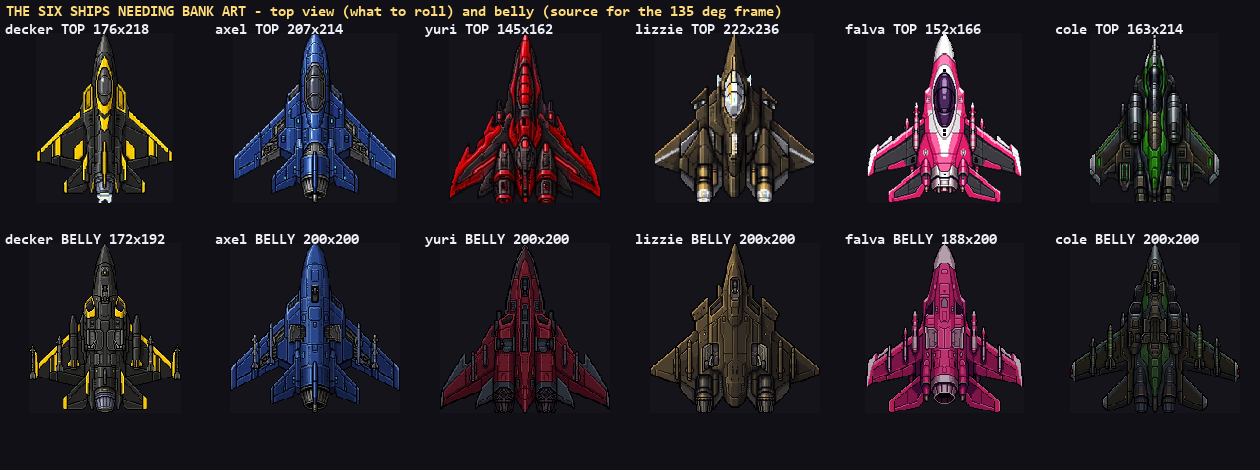
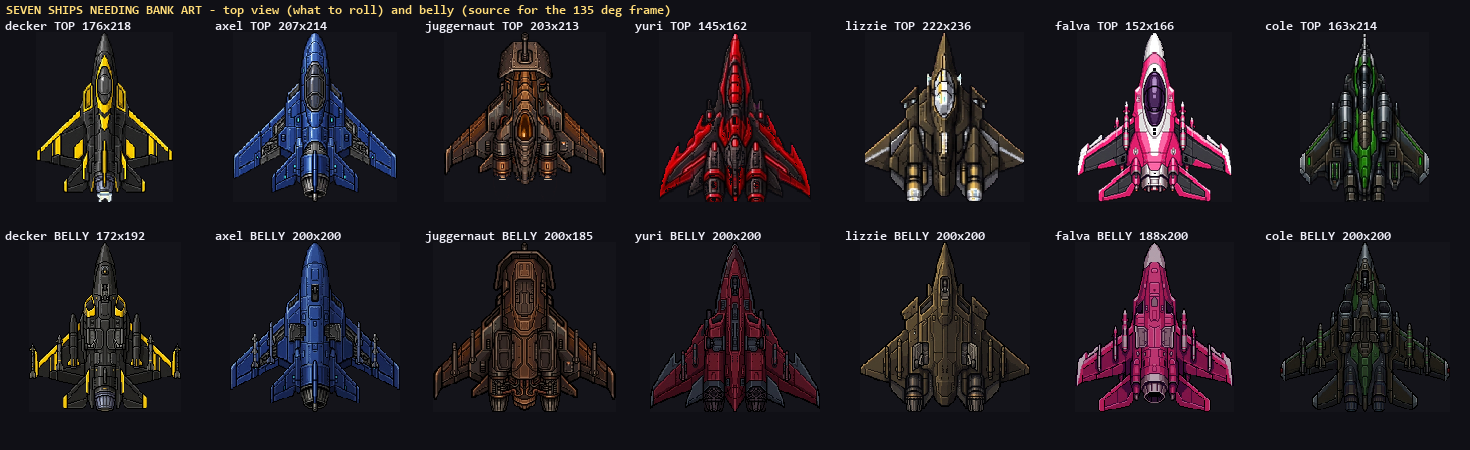
0907c: juggernaut added, and DERIVED vs AUTHORED is a byte compare not a width check
Mike: "Ill need juggernauts too." - and he was right, for a reason that also invalidates what
0907b concluded about him.

A width progression that looks perfect is the SIGNATURE of a derived reel, not of a good one.
Juggernaut's widths run 203/194/190/181/143/21/143, a textbook cosine, and 0907b called him
"clean, leave alone" and made him the POSE REFERENCE on that basis. He is derived - his hull
was replaced in 0906m and the reel derived from it - so his _l and _r are the same pixels.
The widths were perfect because a cosine produced them. Falva was called fine for the same
reason and is also derived.

The only test that separates them is a byte compare of _l against _r and pv0 against pv4:
  DERIVED   juggernaut, decker, axel, falva
  AUTHORED  maverick, lizzie, yuri, cole, freezer

The pose reference is Maverick now. Handing an artist Juggernaut's frames to copy would have
taught the exact left-right symmetry the hand-authoring exists to remove.

Being authored is not the same as being good, either: yuri's every bank frame is 145 px -
exactly his hull width, he never banks; lizzie's three pivot steps share one width; cole's
27-degree bank is wider than his 17-degree one.

Package now covers seven ships with top and belly plates, per-frame target sizes, and a note
that returned art may drift: fit to reel height and align by silhouette, never by bbox, and
watch for drift BETWEEN a ship's own frames because that morphs it mid-lean.
[…]

Changed region(s): [[0.0, 0.0, 0.9905, 0.4667], [0.0, 0.4978, 0.8357, 0.9333], [0.8357, 0.4978, 0.9905, 0.9022]]

diff --git a/_BUILD_SOURCE/build_bank_handoff_0907c.py b/_BUILD_SOURCE/build_bank_handoff_0907c.py
@@ -1,0 +1,208 @@
+#!/usr/bin/env python3
+"""build_bank_handoff_0907c.py - the hand-authoring package for the frames SpriteCook cannot make.
+
+    python _BUILD_SOURCE/build_bank_handoff_0907c.py
+
+Mike, 0907: "give me the top down ships that we need that spritecook cant generate and I'll use
+gpt to do so" -> "I need yuri's, lizzie's, falva's, cole's too" -> "Ill need juggernauts too."
+
+⚠ WHICH SHIPS NEED THIS IS A MEASUREMENT, AND I GOT IT WRONG TWICE BY GUESSING FROM WIDTHS.
+A DERIVED reel is a horizontal squash of the top view, and `abs(cos t)` is symmetric in t, so its
+left and right poses are THE SAME PIXELS. Comparing `_l` against `_r` and `pv0` against `pv4` byte
+for byte is the only test that separates them:
+
+    DERIVED  juggernaut, decker, axel, falva
+    AUTHORED maverick, lizzie, yuri, cole, freezer
+
+Judging by width progression instead called juggernaut "clean, leave alone" (his widths run
+203/194/190/181/143/21/143, which is a perfect cosine - because that is exactly what produced
+them) and called falva fine for the same reason. Both are symmetric and carry no direction.
+
+⚠ AND THE POSE REFERENCE MUST BE AN AUTHORED REEL. An earlier pass used Juggernaut, which would
+have taught the artist the very symmetry this exercise exists to remove. Maverick is authored and
+his l/r genuinely differ; his WIDTHS are degenerate (l, pv0 and br1 all 156) so the picture teaches
+the pose and the table governs the size.
+"""
+import os, json, math, subprocess
+from PIL import Image, ImageDraw, ImageFont
+
+ROOT = os.path.dirname(os.path.dirname(os.path.abspath(__file__)))
+OUT = os.path.join(ROOT, 'docs/HANDOFF_BANK_FRAMES')
+H = os.path.join(ROOT, '_BUILD_SOURCE/sc_hero_0906x')
+ATLAS = os.path.join(ROOT, 'assets/game/atlas/bof_player_ships_barrel_rolls.png')
+
+NEED = ['decker', 'axel', 'juggernaut', 'yuri', 'lizzie', 'falva', 'cole']
+DIAG = {
+ 'decker': 'DERIVED - new hull (0906x), no authored bank art ever existed; l and r are identical.',
+ 'axel': 'DERIVED - new hull (0906x), no authored bank art ever existed; l and r are identical.',
+ 'juggernaut': ['DERIVED - his hull was replaced in 0906m and the reel derived from it, so l and r are',
+                'pixel identical. His widths run 203/194/190/181/143/21/143, a perfect cosine, which',
+                'is why an earlier pass wrongly called him clean - the widths were never the problem.'],
+ 'yuri': ['AUTHORED but broken - every bank and roll frame is 145 px, exactly his hull width.',
+          'pv1, l, pv0, br1 and br2 do not narrow by a single pixel; he never banks or rolls.'],
+ 'lizzie': ['AUTHORED but degenerate - pv1, l and pv0 are all 211 px, so the three pivot steps',
+            'share one width and the lean never progresses.'],
+ 'falva': ['DERIVED - l and r are identical. Her widths progress cleanly, which is why an earlier',
+           'pass called her fine, and her old turn frames also carried a BAKED ENGINE FLAME that',
+           'game.js refuses to use.'],
+ 'cole': ['AUTHORED but out of order - pv0 (27 deg) is 156 px against pv1 (17 deg) at 153, so the',
+          'HARDER bank is WIDER than the gentle one. l and pv0 also share a width.'],
+}
+FRAMES = [(17, 'pv3', 'gentle bank right - you start to see its right side'),
+          (20, 'r', 'bank right - the standard lean'),
+          (27, 'pv4', 'hard bank right'),
+          (45, 'br7', 'rolling right - wings clearly foreshortened'),
+          (90, 'br6', 'KNIFE EDGE - fuselage spine and the razor edge of the wings only'),
+          (135, 'br5', 'past vertical - now showing the BELLY, still narrow')]
+
+
+def flat(x, bg=(20, 20, 26)):
+    o = Image.new('RGB', x.size, bg)
+    o.paste(x, (0, 0), x)
+    return o
+
+
+def main():
+    os.makedirs(OUT, exist_ok=True)
+    rows = json.loads(subprocess.run(['node', '-e',
+        "global.window=global;eval(require('fs').readFileSync('assets/manifest.js','utf8'));"
+        "process.stdout.write(JSON.stringify(BOFX.ships));"], capture_output=True, cwd=ROOT).stdout.decode())
+    A = Image.open(ATLAS).convert('RGBA')
+
+    def cut(k):
+        r = rows[k]
+        c = A.crop((r[0], r[1], r[0] + r[2], r[1] + r[3]))
+        return c.crop(c.getbbox())
+
+    try:
+        F = ImageFont.truetype('C:/Windows/Fonts/consolab.ttf', 13)
+    except Exception:
+        F = ImageFont.load_default()
+
+    POSES = [('_pv2', 'LEVEL 0 deg'), ('_pv1', 'bank right 17'), ('_l', 'bank right 20'),
+             ('_pv0', 'bank right 27'), ('_br1', 'roll right 45'),
+             ('_br2', 'roll right 90 EDGE'), ('_br3', 'roll 135 BELLY')]
+    T = 200
+    S = Image.new('RGB', (T * len(POSES), T + 66), (16, 16, 22))
+    d = ImageDraw.Draw(S)
+    d.text((6, 4), 'MAVERICK, AUTHORED - copy the POSE, not the sizes. His nose never leaves vertical;', font=F, fill=(255, 220, 120))
+    d.text((6, 20), 'as he rolls you see the SIDE of his fuselage. That is what makes left differ from right,', font=F, fill=(255, 220, 120))
+    d.text((6, 36), 'and it is the one thing a squash cannot fake. Target WIDTHS are in the table, not here.', font=F, fill=(255, 220, 120))
+    for i, (k, lbl) in enumerate(POSES):
+        im = cut('ship_maverick' + k)
+        sc = min((T - 14) / im.width, (T - 74) / im.height)
+        t = flat(im.resize((max(1, int(im.width * sc)), max(1, int(im.height * sc))), Image.NEAREST))
+        S.paste(t, (i * T + (T - t.width) // 2, 54 + (T - 54 - t.height) // 2))
+        d.text((i * T + 5, T + 44), lbl, font=F, fill=(238, 238, 248))
+    S.save(os.path.join(OUT, 'POSE_REFERENCE_maverick.png'))
+
+    L = []
+    def W_(s=''):
+        L.append(s)
+    W_('BULLETS OF FURY - BANK / ROLL FRAMES NEEDED (hand-authored)')
+    W_('=' * 76)
+    W_()
+    W_('SpriteCook cannot produce these. Tested four ways - plain prompt, emphatic prompt, a')
+    W_('picture of the exact pose as reference, and per-frame editing of the hull. Every time it')
+    W_('YAWED the sprite in the image plane instead of ROLLING it about the nose-to-tail axis:')
+    W_('principal axis came back -49, -64 and -45 degrees where the correct answer is +90 (nose')
+    W_('straight up). It also cannot draw a knife-edge - asked for one it returns a narrowed top')
+    W_('view with the canopy still visible, 39 px wide where a true edge is 18.')
+    W_()
+    W_('THE RULES FOR EVERY FRAME')
+    W_('-' * 76)
+    W_('  * The NOSE STAYS POINTING STRAIGHT UP, dead vertical, in every single frame. The ship')
+    W_('    rolls about its own nose-to-tail axis. Do NOT rotate the image.')
+    W_('  * As it rolls you should see the SIDE of the fuselage. That is what makes a left bank')
+    W_('    differ from a right one, and it is the whole reason these are worth drawing by hand.')
+    W_('  * Camera stays directly overhead. Same design, colours, panel detail, light from above.')
+    W_('  * Transparent background. 1px black outline. NO glow, aura or bloom.')
+    W_('  * NO ENGINE FLAME - the build bakes the flame on, and a drawn one gets doubled.')
+    W_('  * Height stays the same in every frame; only the WIDTH narrows as it rolls.')
+    W_()
+    W_('ONLY ONE SIDE IS NEEDED. Draw the ship banking to ITS RIGHT; the build mirrors each frame')
+    W_('for the left-hand pose. These airframes are laterally symmetric, so the mirror is exact.')
+    W_()
+    W_('SIZE DRIFT IS FINE. If the tool returns a frame a little off the target size, or slightly')
+    W_('restyled, the build absorbs it - frames are fitted to the reel height and aligned by')
+    W_('silhouette, not by their bounding box. What CANNOT be absorbed is the appearance drifting')
+    W_('BETWEEN frames of the same ship, because that makes the aircraft morph mid-lean. Keep one')
+    W_('ship consistent across its six frames and any overall size difference gets normalised.')
+    W_()
+    W_()
+    W_('WHY EACH SHIP IS ON THE LIST (measured, not opinion)')
+    W_('=' * 76)
+    W_('A DERIVED reel is a horizontal squash of the top view, and that squash is symmetric about')
+    W_('the roll angle - so its left and right poses are THE SAME PIXELS and it can never show')
+    W_('direction. Verified per ship by comparing l against r, and pv0 against pv4, byte for byte.')
+    W_()
+    for p in NEED:
+        v = DIAG[p]
+        if isinstance(v, str):
+            v = [v]
+        W_('  %-11s %s' % (p.upper(), v[0]))
+        for extra in v[1:]:
+            W_('              %s' % extra)
+    W_()
+    W_('NOT ON THE LIST - authored, and they do carry direction:')
+    W_('  MAVERICK   l, pv0 and br1 are all 156 px - three roll angles sharing one width.')
+    W_('  FREEZER    br2 is 85 px against a 197 px hull (0.43) - not a true edge, and br2 and br3')
+    W_('             share a width.')
+    W_()
+    for p in NEED:
+        f = os.path.join(OUT, '%s_TOP_reference.png' % p)
+        if not os.path.exists(f):
+            im = Image.open(os.path.join(H, '%s_hero.png' % p)).convert('RGBA')
+            im = im.crop(im.getbbox())
+            im.save(f)
+        im = Image.open(f)
+        bw, bh = im.width, im.height
+        bf = os.path.join(H, '%s_belly.png' % p)
+        if os.path.exists(bf):
+            b = Image.open(bf).convert('RGBA')
+            b = b.crop(b.getbbox())
+            b.save(os.path.join(OUT, '%s_BELLY_reference.png' % p))
+        W_()
+        W_('%s   - work from %s_TOP_reference.png  (%dx%d)' % (p.upper(), p, bw, bh))
+        W_('-' * 76)
+        W_('  %-24s %-12s %s' % ('frame', 'target size', 'what it is'))
+        for ang, name, desc in FRAMES:
+            w = max(int(round(bw * abs(math.cos(math.radians(ang))))), 16 if ang == 90 else 1)
+            W_('  %-24s %-12s %s' % ('%s  (roll %d deg)' % (name, ang), '%dx%d' % (w, bh), desc))
+        W_('  the 135 deg frame shows the UNDERSIDE - use %s_BELLY_reference.png as its source.' % p)
+    W_()
+    W_('NOT NEEDED - the build already has these:')
+    W_('  level (0 deg) = the top reference;   180 deg = the belly reference;')
+    W_('  every left-hand pose = a mirror of its right-hand twin;')
+    W_('  the eight somersault frames = derived from top / nose-on / belly / tail-on views.')
+    W_()
+    W_('THE TOP AND BELLY PLATES DOUBLE AS SHIP AVATARS. They are clean, flameless,')
+    W_('transparent-background renders of each aircraft at full detail, which is exactly what a')
+    W_('menu, a stat panel or a pilot card wants. Reuse them there rather than cutting new ones.')
+    open(os.path.join(OUT, 'README_WHAT_IS_NEEDED.txt'), 'w', encoding='utf-8').write('\n'.join(L))
+
+    # one sheet of every source plate
+    T2 = 210
+    S2 = Image.new('RGB', (T2 * len(NEED), 2 * T2 + 30), (16, 16, 22))
+    d2 = ImageDraw.Draw(S2)
+    d2.text((6, 4), 'SEVEN SHIPS NEEDING BANK ART - top view (what to roll) and belly (source for the 135 deg frame)', font=F, fill=(255, 220, 120))
+    for i, p in enumerate(NEED):
+        for r, tag in enumerate(('TOP', 'BELLY')):
+            f = os.path.join(OUT, '%s_%s_reference.png' % (p, tag))
+            if not os.path.exists(f):
+                continue
+            im = Image.open(f).convert('RGBA')
+            im = im.crop(im.getbbox())
+            sc = min((T2 - 16) / im.width, (T2 - 40) / im.height)
+            t = flat(im.resize((max(1, int(im.width * sc)), max(1, int(im.height * sc))), Image.NEAREST))
+            S2.paste(t, (i * T2 + (T2 - t.width) // 2, 24 + r * T2 + (T2 - 24 - t.height) // 2))
+            d2.text((i * T2 + 5, 20 + r * T2), '%s %s %dx%d' % (p, tag, im.width, im.height), font=F, fill=(238, 238, 248))
+    S2.save(os.path.join(OUT, 'ALL_SOURCES.png'))
+    print('package rebuilt for %d ships' % len(NEED))
+    for f in sorted(os.listdir(OUT)):
+        print('   ', f)
+    return 0
+
+
+if __name__ == '__main__':
+    raise SystemExit(main())

diff --git a/CLAUDE.md b/CLAUDE.md
@@ -507,6 +507,34 @@ signature of this damage and it is one line to check; the eye catches it only at
 recovered by a second pass over the lossy plate. Ship rects do not move when the atlas is APPENDED
 to, so the pre-swap backup still reads correctly at the same rectangles months later.
 
+## 0907c — DERIVED vs AUTHORED is a byte compare, and judging it by width got it wrong twice
+
+⚠ **A WIDTH PROGRESSION THAT LOOKS PERFECT IS THE SIGNATURE OF A DERIVED REEL, NOT OF A GOOD ONE.**
+Juggernaut's bank widths run **203/194/190/181/143/21/143** - a textbook cosine - and 0907b called
+him "CLEAN, LEAVE ALONE" and made him the pose reference on the strength of it. He is derived: his
+hull was replaced in 0906m and the reel derived from it, so his `_l` and `_r` are the SAME PIXELS.
+The widths were perfect *because* a cosine produced them. Falva was called fine for the same reason
+and is also derived. **The only test that separates the two is a byte compare of `_l` against `_r`
+and `pv0` against `pv4`** - symmetric means derived, means no direction, whatever the widths say:
+
+    DERIVED   juggernaut, decker, axel, falva
+    AUTHORED  maverick, lizzie, yuri, cole, freezer
+
+⚠ **AND THE POSE REFERENCE MUST BE AN AUTHORED REEL, OR IT TEACHES THE DEFECT.** Handing an artist
+Juggernaut's frames to copy would have taught them the exact left-right symmetry the hand-authoring
+exists to remove. Maverick is authored and his l/r genuinely differ, so he teaches the POSE; his own
+widths are degenerate (l, pv0 and br1 all 156) so the size table governs, not the picture.
+
+⚠ **AND THE AUTHORED ONES ARE NOT AUTOMATICALLY GOOD.** Yuri's every bank and roll frame is 145 px,
+exactly his hull width - he never banks at all. Lizzie's three pivot steps share one width. Cole's
+27-degree bank is WIDER than his 17-degree one. Being hand-drawn only guarantees direction, not
+that the reel progresses.
+
+⚠ **PLAN FOR RETURNED ART TO DRIFT.** GPT-authored frames come back slightly off size and lightly
+restyled, which is the same "size is a hint" problem SpriteCook has. Fit to the reel HEIGHT and
+align by silhouette IoU, never by bounding box. What cannot be absorbed is drift BETWEEN frames of
+one ship - that morphs the aircraft mid-lean - so check frame-to-frame consistency, not just size.
+
 ## 0907b — a cosine roll is LEFT-RIGHT SYMMETRIC, so the derived banks have no direction
 
 ⚠ **`_l` AND `_r` ARE PIXEL-IDENTICAL ON EVERY DERIVED SHIP, AND SO ARE `pv0`/`pv4`, `pv1`/`pv3`
